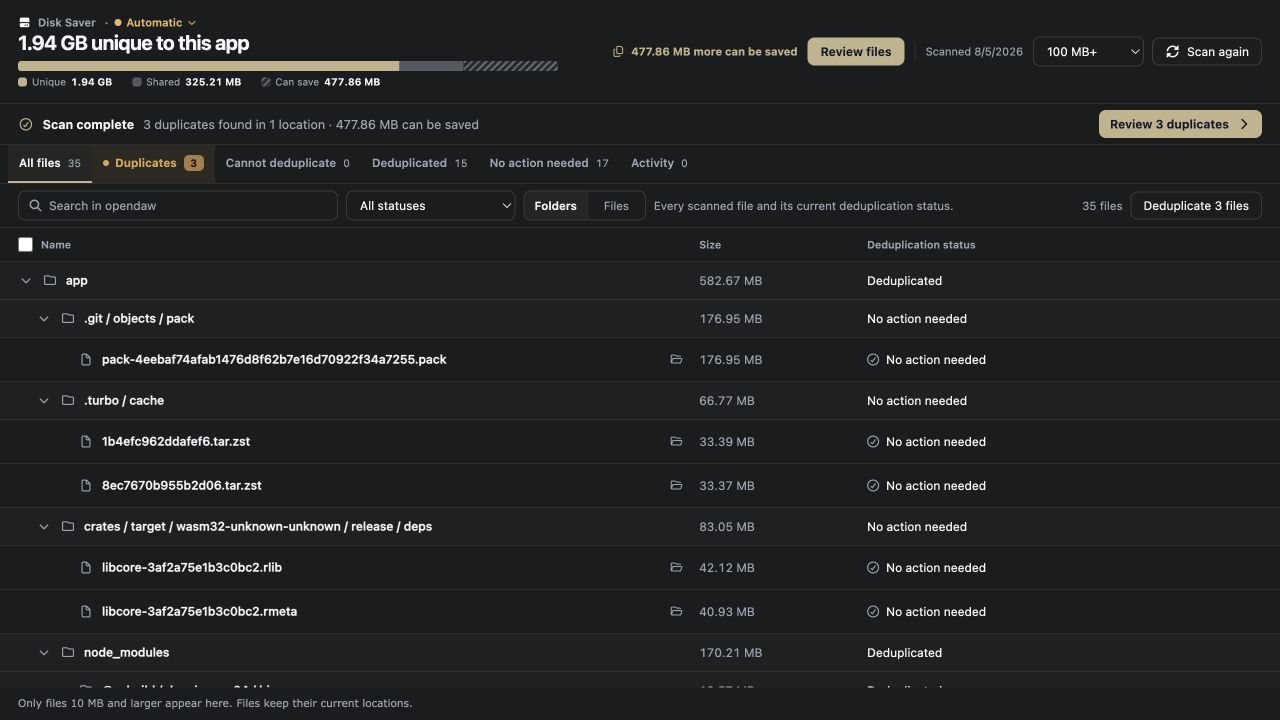
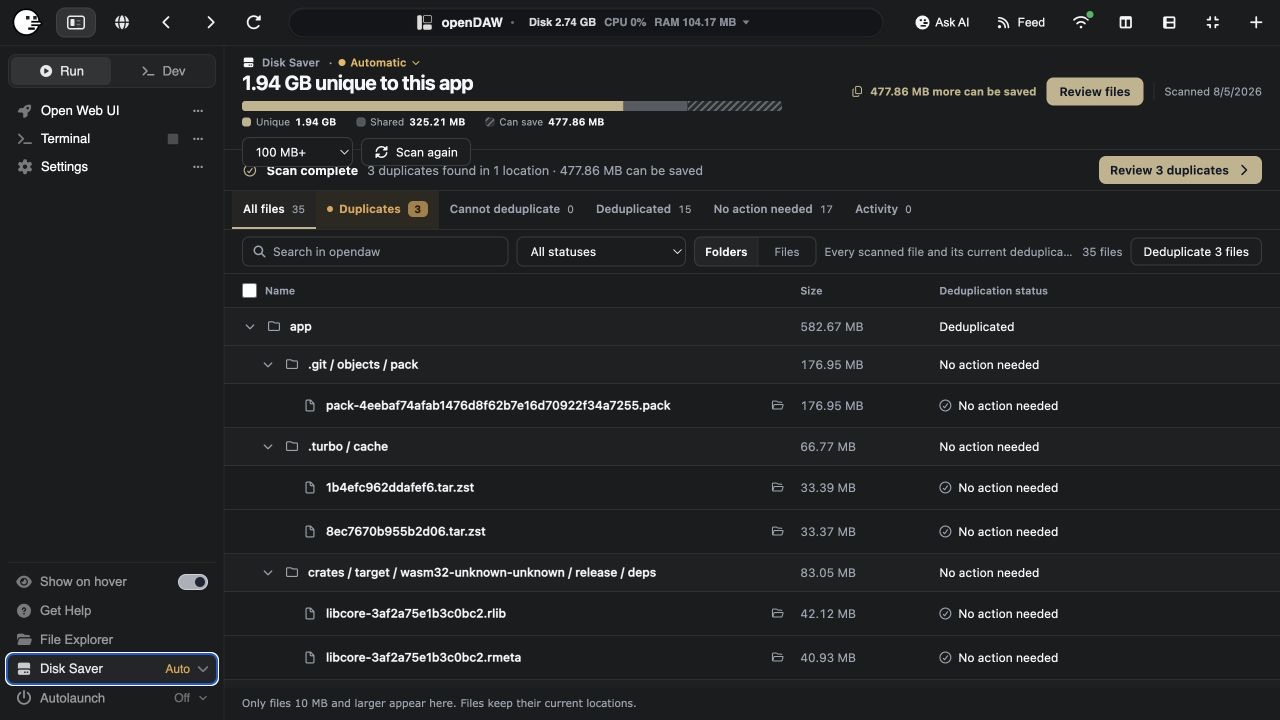
update

diff --git a/README.md b/README.md
@@ -67,7 +67,7 @@ The scan summary separates what you use now from what you could save:
 
 - **In use:** physical space currently occupied.
 - **Saved:** space already avoided through deduplication.
-- **Can save:** space available from eligible duplicates.
+- **Can save:** space available from eligible duplicates, found through scanning.
 
 The numbers update after each action. It is normal for the logical file total to be larger than the physical storage used: several paths can point to the same data.
 
@@ -150,7 +150,7 @@ After the global scan, choose **Add**, then **Find more savings**, to search you
 
 ![Annotated Find more savings dialog](media/annotated/p81-09-find-more-savings-annotated.png)
 
-Hardlinks cannot cross filesystems. Files on an external SSD can share space with each other, but not with a file on the internal drive.
+Disk saver cannot cross filesystems. Files on an external SSD can share space with each other, but not with a file on the internal drive.
 
 - Search Home. Locations already managed by Disk Saver should be skipped.
 - Cancel a search. Nothing should be added.
@@ -164,7 +164,7 @@ Every installed app has its own Disk Saver page. It shows the app's **Unique**, 
 
 Run the global scan first so Pinokio has a verified set of files to compare against.
 
-![Annotated app-specific Disk Saver summary](media/annotated/p81-10-app-scan-annotated.png)
+![Annotated Disk Saver page inside the openDAW app](media/annotated/p81-10-app-scan-annotated.png)
 
 - Open an app, choose Disk Saver, and scan it.
 - Change its minimum-size setting.
